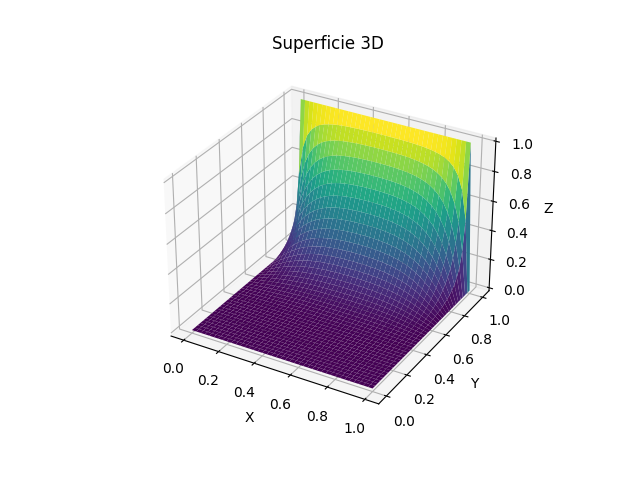
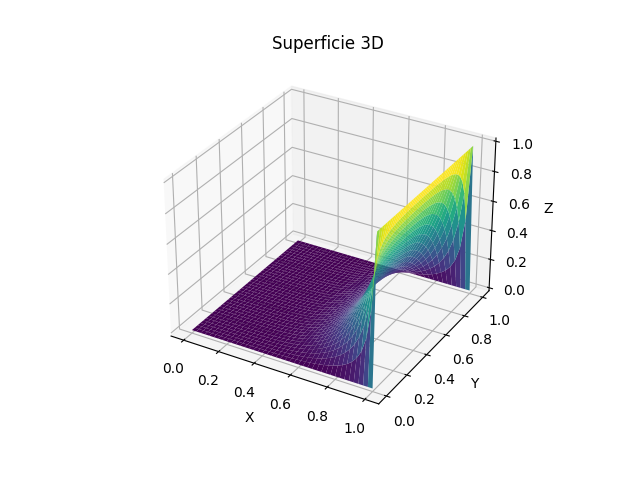
cambios

Changed region(s): [[0.375, 0.1875, 0.75, 0.8125]]

diff --git a/EDP_Poisson.py b/EDP_Poisson.py
@@ -22,11 +22,11 @@ for i in range(N):
 # Aquí introducimos los datos de contorno
 for i in range(1, N):
     w[i][0] = 0
-    w[i][M] = 0
+    w[i][M] = 1
 
 for j in range(1, M):
     w[0][j] = 0
-    w[N][j] = 1
+    w[N][j] = 0
 
 for p in range(100):
     for i in range(1, N):
